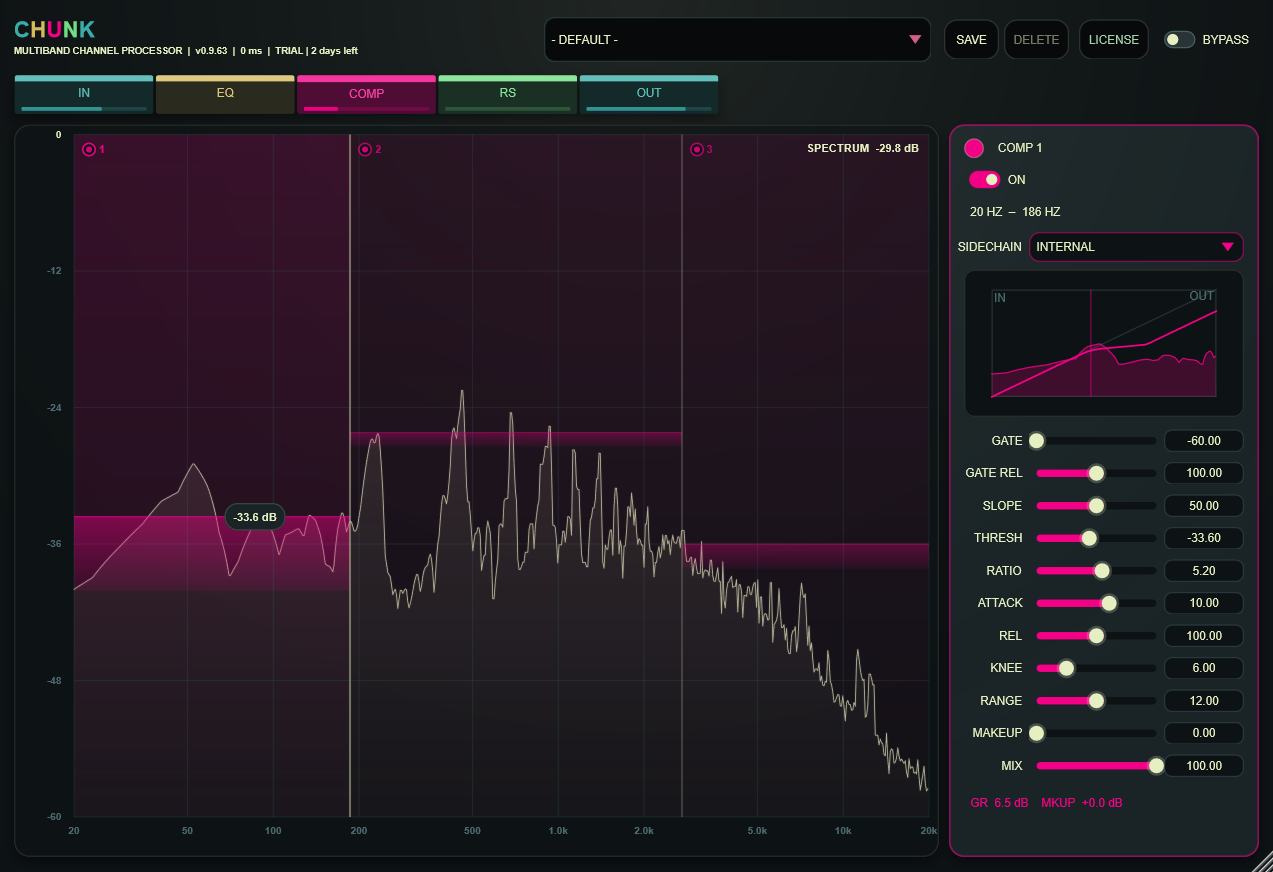
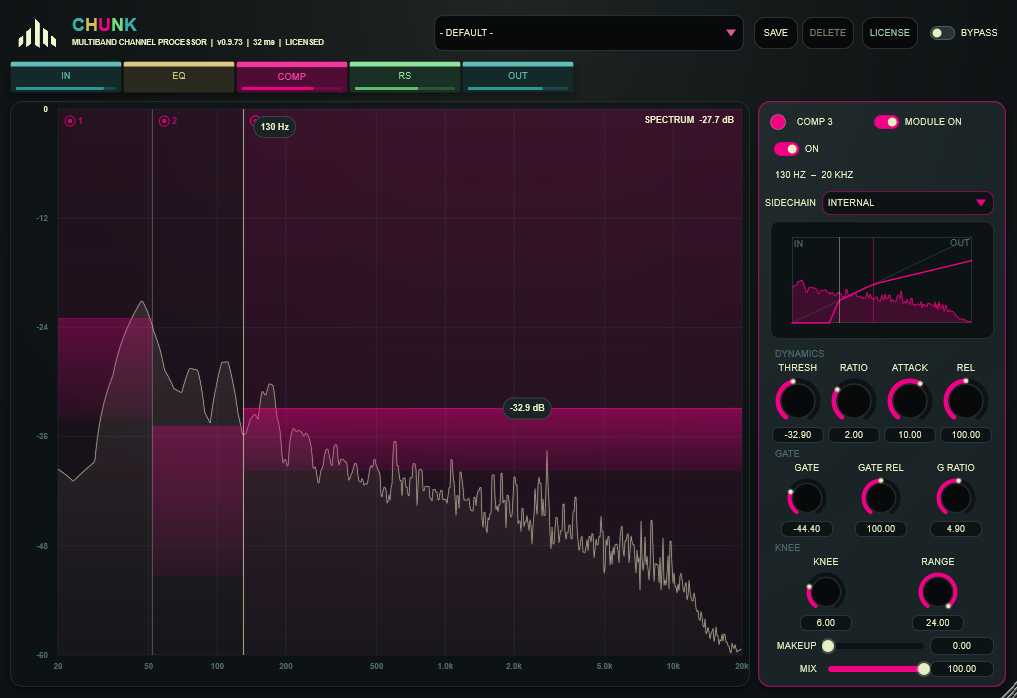
Refresh the EQ, COMP, and RS homepage shots and point the download manifest at 0.9.73.

diff --git a/index.html b/index.html
@@ -145,8 +145,8 @@
                 src="/images/chunk-eq.png"
                 data-content-alt="layers.eqAlt"
                 alt="CHUNK EQ window — multiband equalizer with spectrum graph and band controls"
-                width="1272"
-                height="875"
+                width="1022"
+                height="701"
                 loading="lazy"
               />
             </figure>
@@ -163,8 +163,8 @@
                 src="/images/chunk-comp.png"
                 data-content-alt="layers.compAlt"
                 alt="CHUNK COMP window — multiband compressor with transfer curve and dynamics controls"
-                width="1273"
-                height="872"
+                width="1017"
+                height="698"
                 loading="lazy"
               />
             </figure>
@@ -183,8 +183,8 @@
                 src="/images/chunk-rs.png"
                 data-content-alt="layers.rsAlt"
                 alt="CHUNK RS window — resonance suppressor with spectral gain reduction"
-                width="1268"
-                height="871"
+                width="1022"
+                height="697"
                 loading="lazy"
               />
             </figure>
